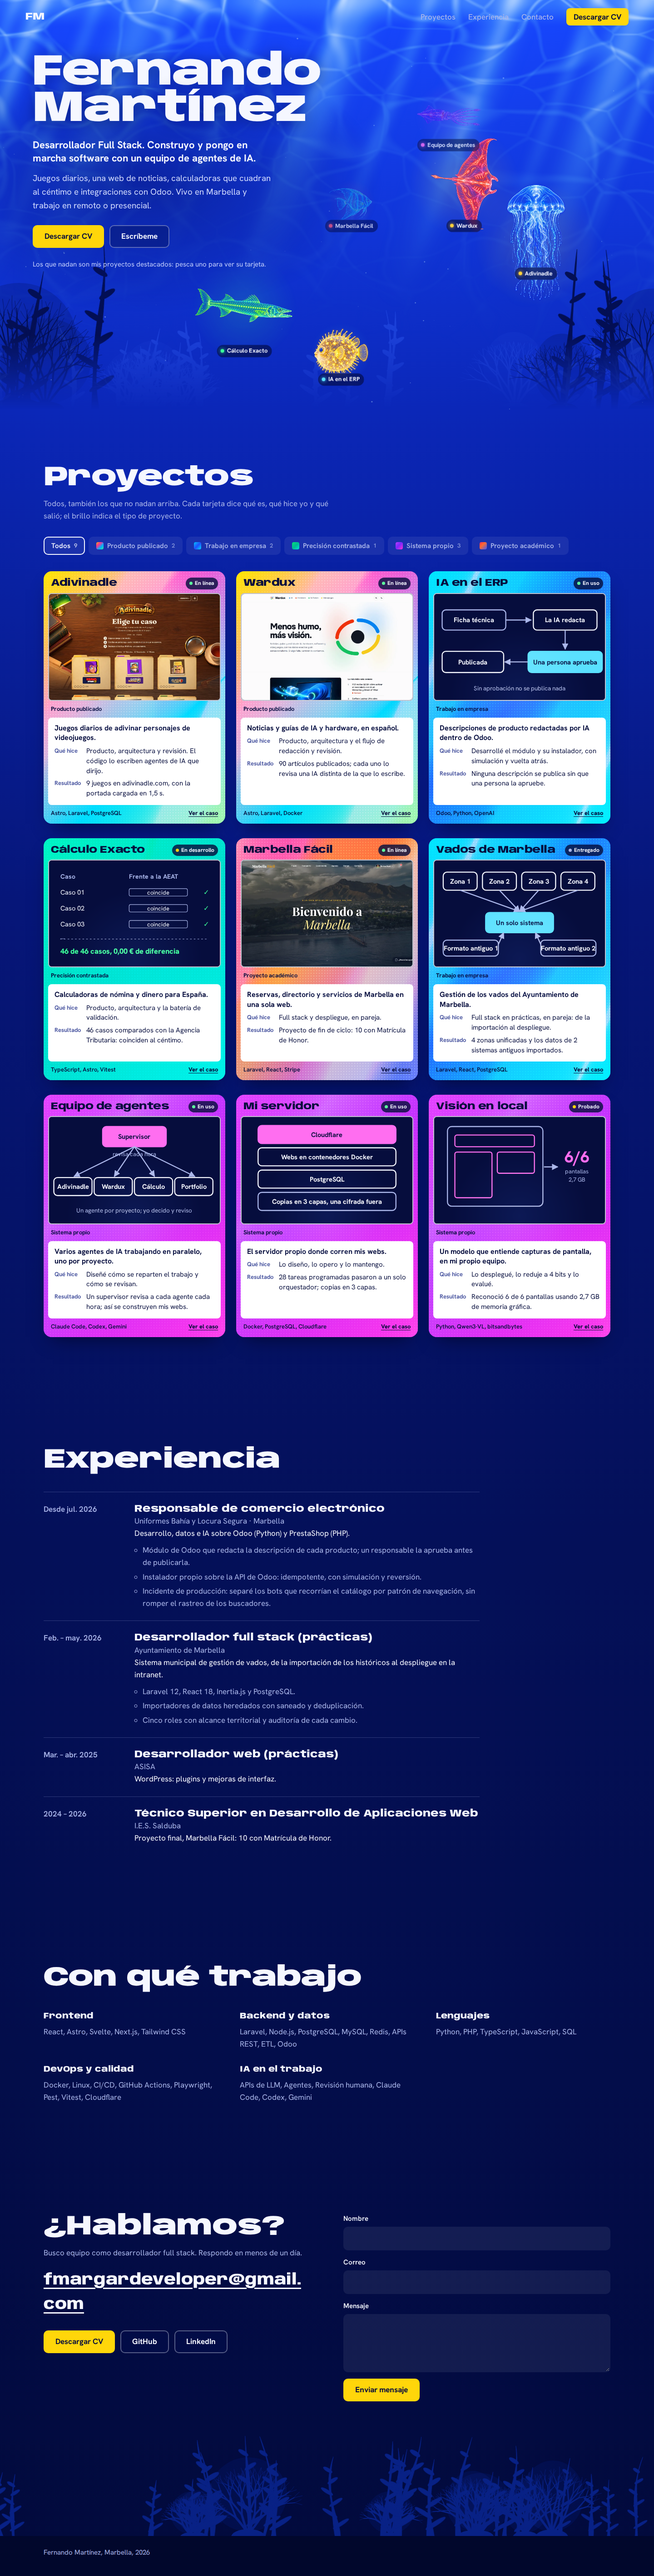
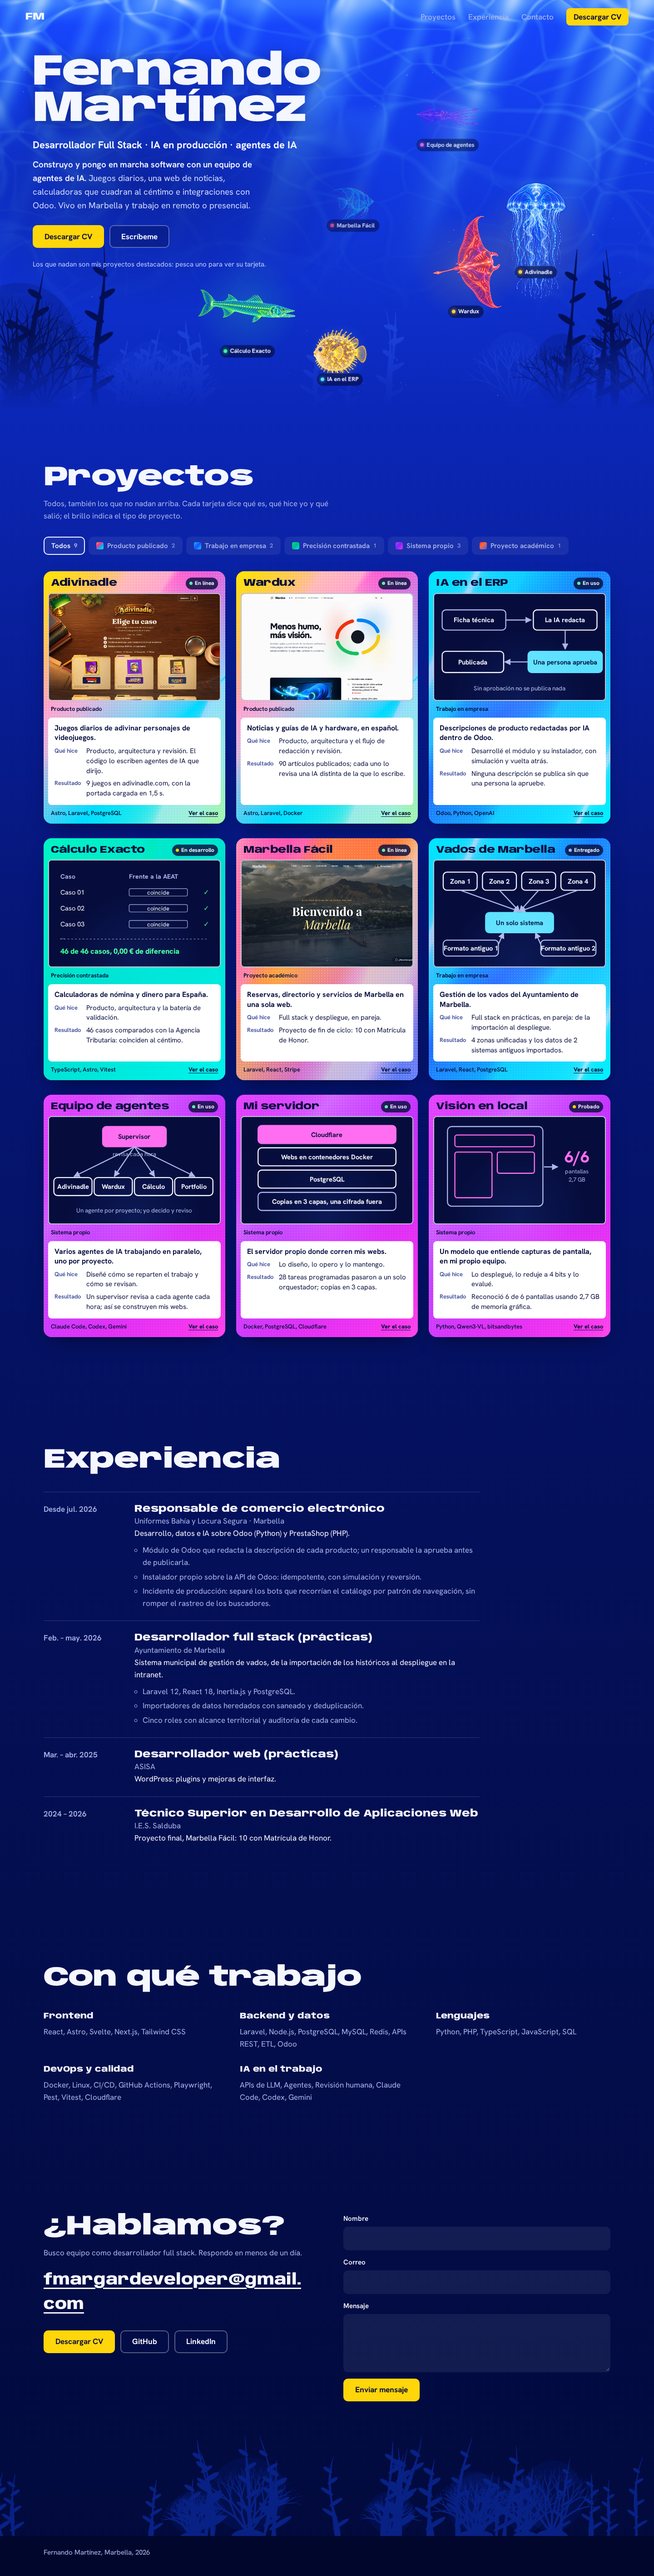
La pesca v2: titular y frase de presentación como los fija CARRERA.md

diff --git a/docs/direcciones-diseno/p-pesca.html b/docs/direcciones-diseno/p-pesca.html
@@ -3,7 +3,7 @@
 <head>
 <meta charset="utf-8">
 <meta name="viewport" content="width=device-width, initial-scale=1">
-<title>Fernando Martínez · Desarrollador Full Stack</title>
+<title>Fernando Martínez · Desarrollador Full Stack · IA en producción · agentes de IA</title>
 <link rel="preconnect" href="https://fonts.googleapis.com">
 <link href="https://fonts.googleapis.com/css2?family=Anybody:wdth,wght@50..150,400..900&family=Hanken+Grotesk:wght@400..800&display=swap" rel="stylesheet">
 <link rel="stylesheet" href="tarjetas/comun.css">
@@ -42,10 +42,12 @@
   .presentacion a, .presentacion p { pointer-events: auto; }
   h1 { font-family: var(--display); font-weight: 900; font-stretch: 125%; font-size: clamp(3rem, 6.6vw, 6.25rem); line-height: .84; letter-spacing: -.04em; text-shadow: 0 .25rem 2rem rgb(2 10 60 / .45); }
   h1 span { display: block; }
-  .titular { margin-top: 1.5rem; font-size: clamp(1.125rem, 1.6vw, 1.375rem); font-weight: 700; line-height: 1.35; max-width: 32rem; text-wrap: balance; }
+  .titular { margin-top: 1.5rem; font-size: clamp(1.125rem, 1.6vw, 1.375rem); font-weight: 700; line-height: 1.35; max-width: 40rem; }
+  .titular span { white-space: nowrap; }
   .entrada { margin-top: .875rem; max-width: 33rem; color: #d3dcff; font-size: clamp(1.0625rem, 1.3vw, 1.1875rem); text-wrap: pretty; }
   .acciones { margin-top: 1.75rem; display: flex; flex-wrap: wrap; gap: .75rem; }
   .acciones .boton:not(.cv) { background: rgb(4 14 80 / .35); backdrop-filter: blur(8px); }
+  .entrada b { color: var(--papel); font-weight: 600; }
   .pista { margin-top: 1.5rem; color: #c3cffc; font-size: .9375rem; display: flex; gap: .5rem; align-items: baseline; }
 
   /* Cada criatura es un botón que la sigue; su nombre va debajo */
@@ -138,8 +140,8 @@
     <svg class="algas-cerca" aria-hidden="true"></svg>
     <div class="presentacion">
       <h1 id="nombre"><span>Fernando</span><span>Martínez</span></h1>
-      <p class="titular">Desarrollador Full Stack. Construyo y pongo en marcha software con un equipo de agentes de IA.</p>
-      <p class="entrada">Juegos diarios, una web de noticias, calculadoras que cuadran al céntimo e integraciones con Odoo. Vivo en Marbella y trabajo en remoto o presencial.</p>
+      <p class="titular"><span>Desarrollador Full Stack</span> · <span>IA en producción</span> · <span>agentes de IA</span></p>
+      <p class="entrada"><b>Construyo y pongo en marcha software con un equipo de agentes de IA.</b> Juegos diarios, una web de noticias, calculadoras que cuadran al céntimo e integraciones con Odoo. Vivo en Marbella y trabajo en remoto o presencial.</p>
       <div class="acciones"><a class="boton cv" href="#">Descargar CV</a><a class="boton" href="#contacto">Escríbeme</a></div>
       <p class="pista">Los que nadan son mis proyectos destacados: pesca uno para ver su tarjeta.</p>
     </div>

diff --git a/docs/direcciones-diseno/vivos/pesca2.html b/docs/direcciones-diseno/vivos/pesca2.html
@@ -3,7 +3,7 @@
 <head>
 <meta charset="utf-8">
 <meta name="viewport" content="width=device-width, initial-scale=1">
-<title>Fernando Martínez · Desarrollador Full Stack</title>
+<title>Fernando Martínez · Desarrollador Full Stack · IA en producción · agentes de IA</title>
 <link rel="preconnect" href="https://fonts.googleapis.com">
 <link href="https://fonts.googleapis.com/css2?family=Anybody:wdth,wght@50..150,400..900&family=Hanken+Grotesk:wght@400..800&display=swap" rel="stylesheet">
 <link rel="stylesheet" href="tarjetas/comun.css">
@@ -42,10 +42,12 @@
   .presentacion a, .presentacion p { pointer-events: auto; }
   h1 { font-family: var(--display); font-weight: 900; font-stretch: 125%; font-size: clamp(3rem, 6.6vw, 6.25rem); line-height: .84; letter-spacing: -.04em; text-shadow: 0 .25rem 2rem rgb(2 10 60 / .45); }
   h1 span { display: block; }
-  .titular { margin-top: 1.5rem; font-size: clamp(1.125rem, 1.6vw, 1.375rem); font-weight: 700; line-height: 1.35; max-width: 32rem; text-wrap: balance; }
+  .titular { margin-top: 1.5rem; font-size: clamp(1.125rem, 1.6vw, 1.375rem); font-weight: 700; line-height: 1.35; max-width: 40rem; }
+  .titular span { white-space: nowrap; }
   .entrada { margin-top: .875rem; max-width: 33rem; color: #d3dcff; font-size: clamp(1.0625rem, 1.3vw, 1.1875rem); text-wrap: pretty; }
   .acciones { margin-top: 1.75rem; display: flex; flex-wrap: wrap; gap: .75rem; }
   .acciones .boton:not(.cv) { background: rgb(4 14 80 / .35); backdrop-filter: blur(8px); }
+  .entrada b { color: var(--papel); font-weight: 600; }
   .pista { margin-top: 1.5rem; color: #c3cffc; font-size: .9375rem; display: flex; gap: .5rem; align-items: baseline; }
 
   /* Cada criatura es un botón que la sigue; su nombre va debajo */
@@ -138,8 +140,8 @@
     <svg class="algas-cerca" aria-hidden="true"></svg>
     <div class="presentacion">
       <h1 id="nombre"><span>Fernando</span><span>Martínez</span></h1>
-      <p class="titular">Desarrollador Full Stack. Construyo y pongo en marcha software con un equipo de agentes de IA.</p>
-      <p class="entrada">Juegos diarios, una web de noticias, calculadoras que cuadran al céntimo e integraciones con Odoo. Vivo en Marbella y trabajo en remoto o presencial.</p>
+      <p class="titular"><span>Desarrollador Full Stack</span> · <span>IA en producción</span> · <span>agentes de IA</span></p>
+      <p class="entrada"><b>Construyo y pongo en marcha software con un equipo de agentes de IA.</b> Juegos diarios, una web de noticias, calculadoras que cuadran al céntimo e integraciones con Odoo. Vivo en Marbella y trabajo en remoto o presencial.</p>
       <div class="acciones"><a class="boton cv" href="#">Descargar CV</a><a class="boton" href="#contacto">Escríbeme</a></div>
       <p class="pista">Los que nadan son mis proyectos destacados: pesca uno para ver su tarjeta.</p>
     </div>

diff --git a/docs/ESTADO.md b/docs/ESTADO.md
@@ -45,10 +45,11 @@ esas tarjetas antes de la sesión.
 
 **Coordinación con el chat de carrera (13/10):** CV, LinkedIn y candidaturas los lleva ese chat
 (session_01L1PCMAnNnP3CqBPPWkHQBg, estado en `~/docs/CARRERA.md`). Lo que el portfolio cuente de
-Fernando tiene que cuadrar con CARRERA.md y el CV maestro. Pendiente: el titular de la P
-(«…Construyo y pongo en marcha software con un equipo de agentes de IA») no es el de CARRERA.md
-(«Desarrollador Full Stack · IA en producción · agentes de IA»). Ya se lo he preguntado; antes de
-desplegar, usar el que fije CARRERA.md.
+Fernando tiene que cuadrar con CARRERA.md y el CV maestro. Fijado por CARRERA.md §2: **titular**
+«Desarrollador Full Stack · IA en producción · agentes de IA» (igual en CV, LinkedIn, web,
+`<title>` y Open Graph) y, debajo, la **frase** «Construyo y pongo en marcha software con un
+equipo de agentes de IA». Prohibido en prosa «llevar la IA a producción» y variantes. Ya aplicado
+en la P (13/10). Si cambia, avisa carrera y se cambia en los tres sitios a la vez.
 
 **Espera a Fernando:** que vea la P en el móvil y el ordenador (la velocidad real solo se ve con
 GPU; la grabación del servidor va a ~3 fps). Ajustes posibles: número de peces, velocidades,
